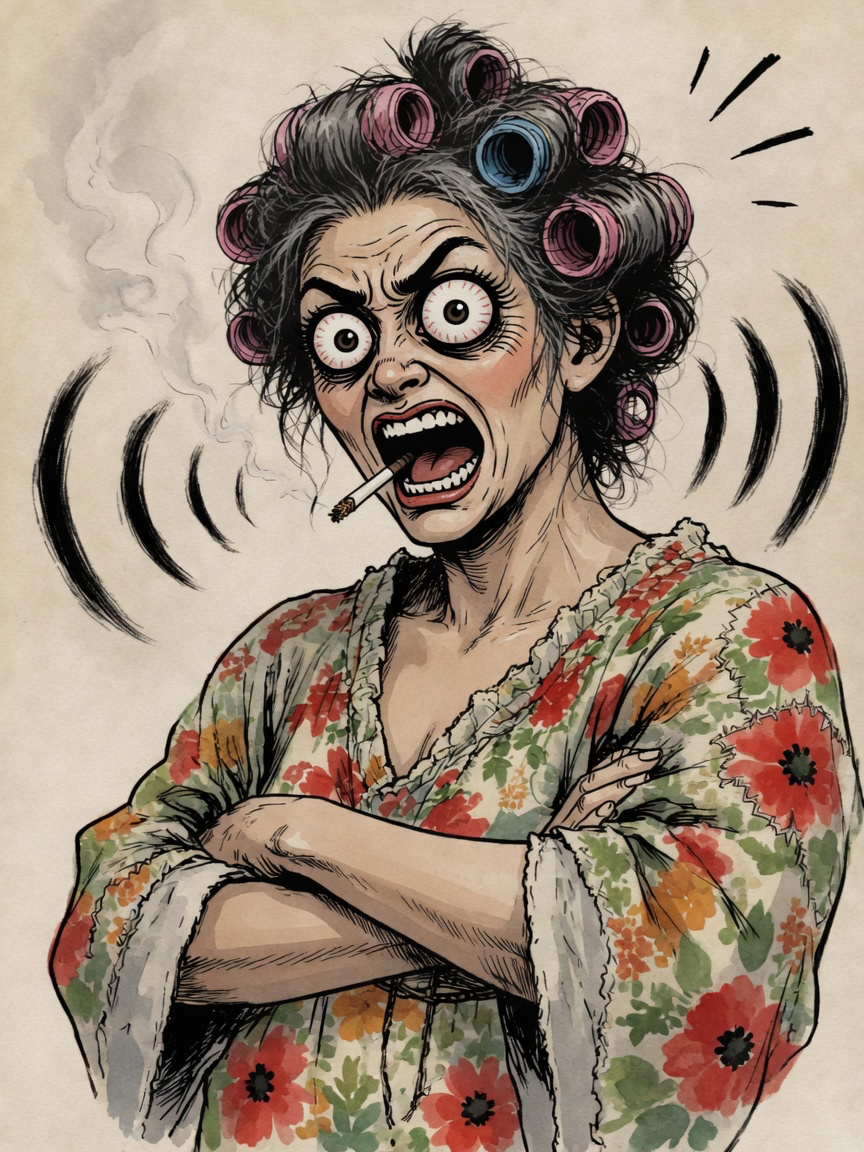
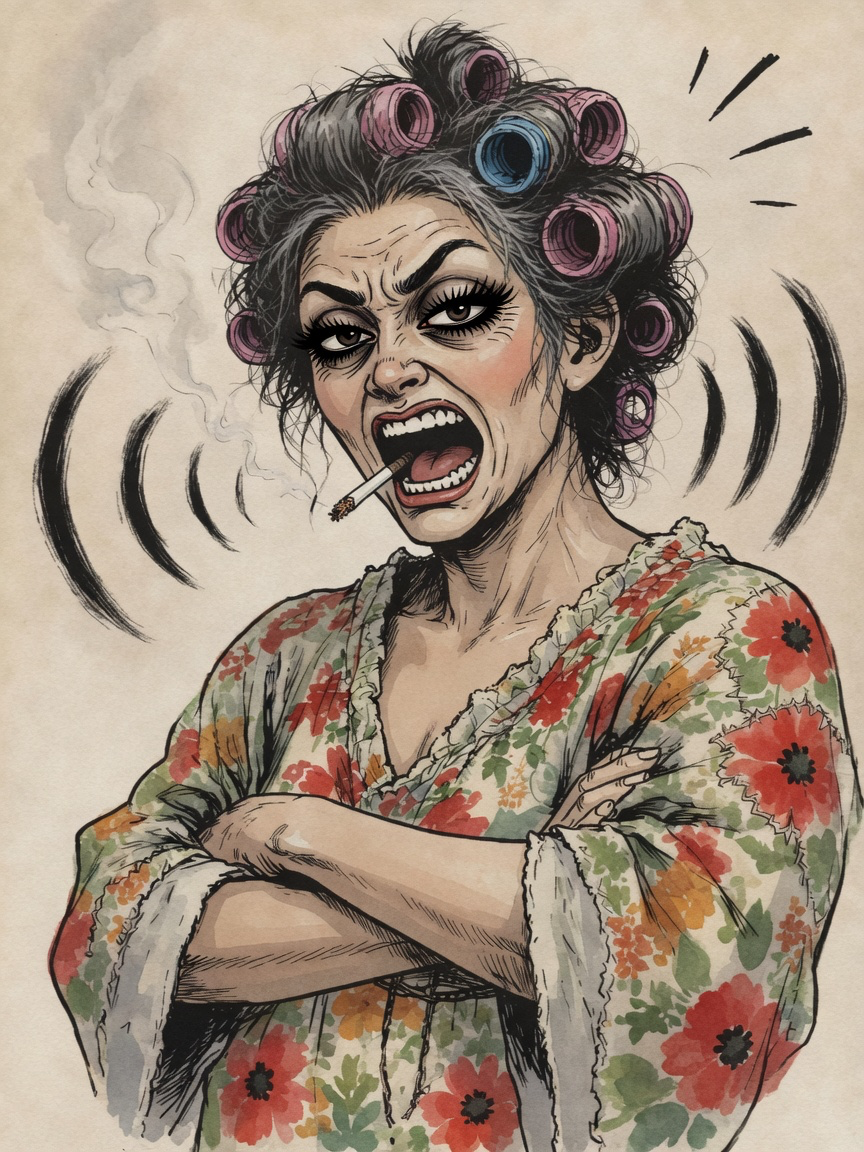
feat(sg): soften the landlady caricature
The owner asked to pull the exaggeration back. The rollers, cigarette, floral housecoat, and shout stay. New pixels are an image edit; model version and seed are unrecorded.

diff --git a/sect-chronicle/docs/PUBLIC_PORTRAIT_IMPORT_SPEC.md b/sect-chronicle/docs/PUBLIC_PORTRAIT_IMPORT_SPEC.md
@@ -21,7 +21,7 @@
 | 小龍女 | `cadb937fb7ed54f44c72e562639fc598a6a1e646` | `solo-sect/assets/portraits/v2/xiaolongnv-v2-c.png` | 864×1152 | 2026-10-26 試一版長髮與白緞帶，跟黃蓉的雙髻分開。清冷與白衣留著。上列路徑只作身份參考。 |
 | 李莫愁 | `6760f21c342cbf72fc9fb4baf0aec8655abd0dd2` | `solo-sect/assets/portraits/v2/limochou-v2-h.png` | 480×640 | 擁有人已選的版本。 |
 | 東方不敗 | `edaf2ed60954808221447640efb79f0215dbc278` | `solo-sect/assets/portraits/v2/dongfangbubai-v2-a.png` | 480×640 | 已選的陰柔危險樣子。不改成搞笑。 |
-| 包租婆 | `6db09fd97cac3d9a66cde49103978d7793317418` | `solo-sect/assets/portraits/baozupo.png` | 864×1152 | 2026-10-26 改掉擬真，收到漫畫墨線。大聲的房東、髮卷、香煙和碎花罩衫留著。上列路徑只作身份參考。 |
+| 包租婆 | `6db09fd97cac3d9a66cde49103978d7793317418` | `solo-sect/assets/portraits/baozupo.png` | 864×1152 | 2026-10-26 漫畫墨線，五官再收一點。大聲的房東、髮卷、香煙和碎花罩衫留著。上列路徑只作身份參考。 |
 | 包租公 | `6db09fd97cac3d9a66cde49103978d7793317418` | `solo-sect/assets/portraits/baozugong.png` | 864×1152 | 2026-10-26 跟包租婆一起改掉擬真。髮卷少幾顆、一顆豎起，汗衫和懶笑留著。上列路徑只作身份參考。 |
 | 苦力強 | `6db09fd97cac3d9a66cde49103978d7793317418` | `solo-sect/assets/portraits/kulijiang.png` | 864×1152 | 2026-10-26 依阿星風格重畫，隨後把身材收成街坊叔叔。竹竿與汗留著。上列路徑只作身份參考。 |
 | 裁縫 | `6db09fd97cac3d9a66cde49103978d7793317418` | `solo-sect/assets/portraits/caifeng.png` | 864×1152 | 2026-10-26 依阿星風格重畫的搞笑稿。上列路徑只作身份參考。 |
@@ -35,7 +35,7 @@
 
 每張已知圖都有：作者 Grok Bot、來源提交、原路徑 `source.originPath`、複製後路徑、sha256、寬高、`alpha.channel: false`、錨點 `{x:0.5, y:1}`。配方類型是 `portrait`，矩形等於整張圖。生成紀錄來自 `6760f21:solo-sect/assets/portraits/PROMPTS.md`：工具 Grok Bot GenerateImage，模型版本未量測，3:4，無參考圖，無 seed。阿星與郭靖的風格記號是 `wcaricature`，黃蓉是 `inkpretty`。其餘未重畫檔的提示紀錄沒有逐檔風格記號，欄位寫 `unrecorded-for-this-file`。
 
-2026-10-26 擁有人指定：男角搞笑對齊阿星，女角清秀對齊黃蓉，周伯通對齊郭靖。因此裁縫、苦力強、油炸鬼、火雲邪神改以阿星為風格重畫，周伯通改以郭靖為風格重畫。新像素的工具是 Grok Build Imagine `image_edit`，模型版本與 seed 未記錄，權利是 `owner-requested-generation; third-party-rights-unverified`。同日又補兩處：包租公戴上與包租婆相同的髮卷，苦力強的身材收到跟裁縫、油炸鬼同一種街坊叔叔。小龍女另試一版長髮與白緞帶，跟黃蓉分開。包租婆與包租公隨後一起改成漫畫墨線，黃蓉、東方不敗、阿星、郭靖維持原採用圖。
+2026-10-26 擁有人指定：男角搞笑對齊阿星，女角清秀對齊黃蓉，周伯通對齊郭靖。因此裁縫、苦力強、油炸鬼、火雲邪神改以阿星為風格重畫，周伯通改以郭靖為風格重畫。新像素的工具是 Grok Build Imagine `image_edit`，模型版本與 seed 未記錄，權利是 `owner-requested-generation; third-party-rights-unverified`。同日又補兩處：包租公戴上與包租婆相同的髮卷，苦力強的身材收到跟裁縫、油炸鬼同一種街坊叔叔。小龍女另試一版長髮與白緞帶，跟黃蓉分開。包租婆與包租公隨後一起改成漫畫墨線，包租婆的五官再收一點。黃蓉、東方不敗、阿星、郭靖維持原採用圖。
 
 卡片氣泡顯示的 `source.path` 是複製後的 `sect-chronicle/` 路徑。pin 驗證只接受這種路徑。原路徑寫在 `originPath` 和 `recipe.derivedFrom`。
 
